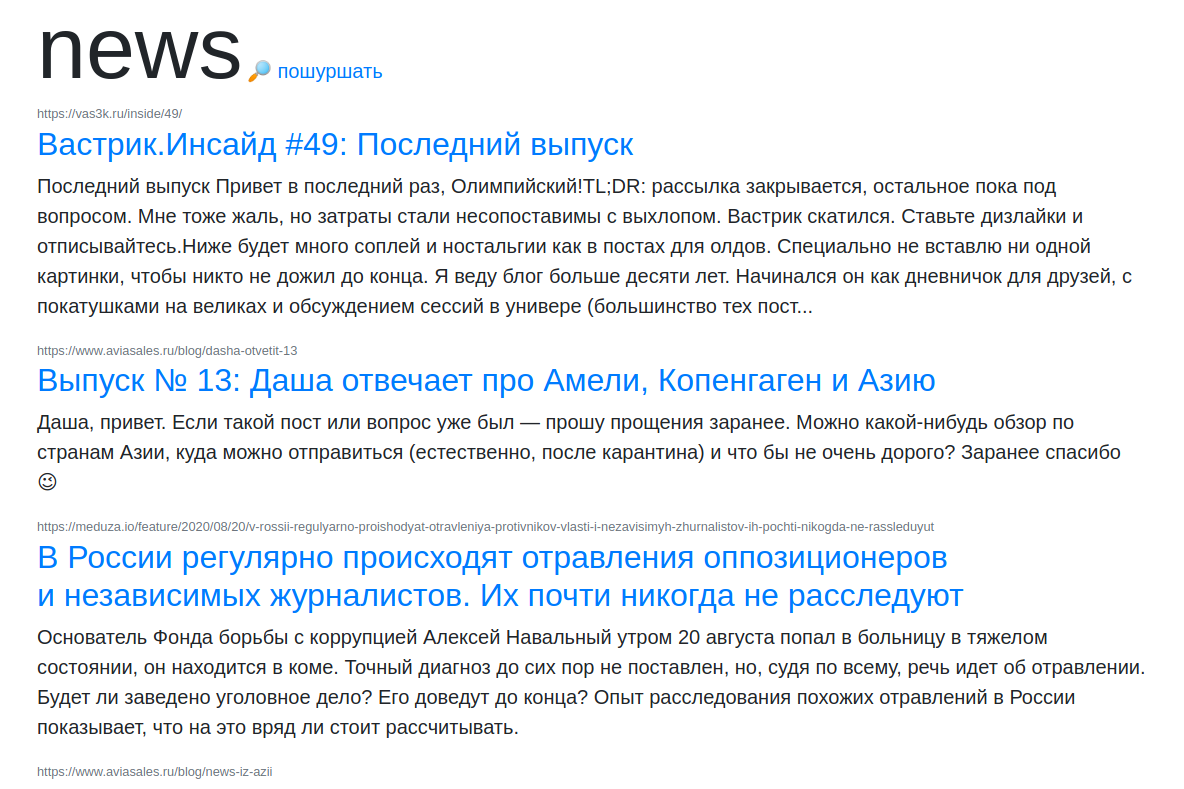
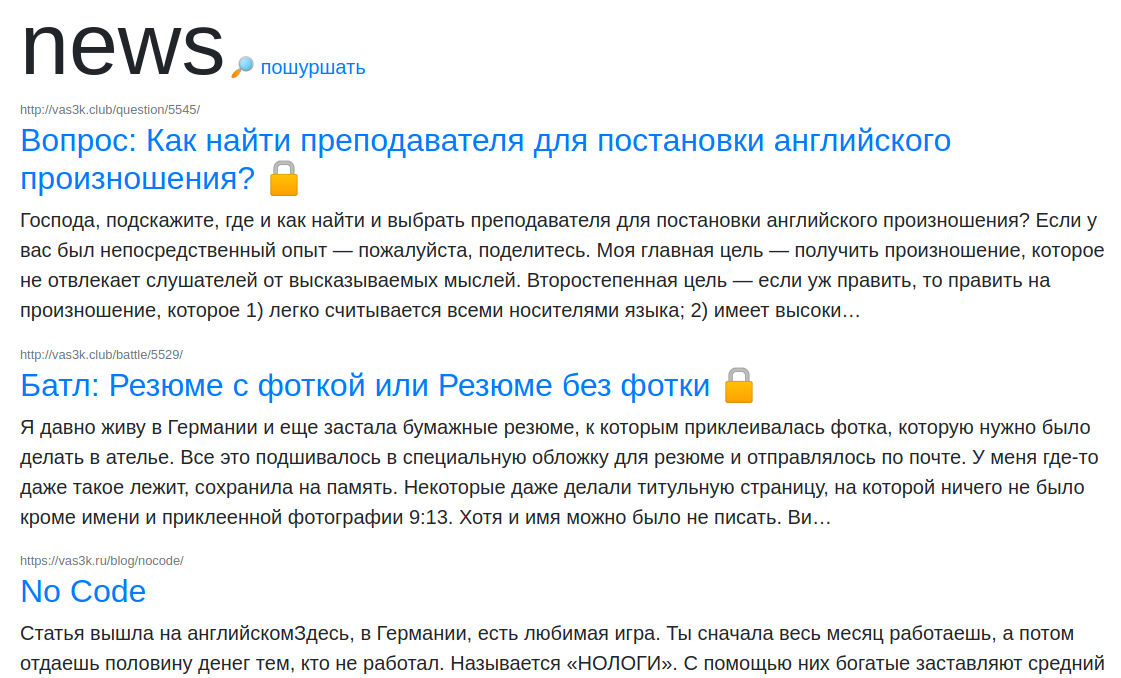
update readme and small fixes

Changed region(s): [[0.0, 0.031, 0.9991, 1.0]]

diff --git a/parser/feed.go b/parser/feed.go
@@ -1,15 +1,16 @@
 package main
 
 import (
+	"log"
+	"strings"
+
 	"github.com/PuerkitoBio/goquery"
 	"github.com/denchick/news/database"
 	"github.com/mmcdole/gofeed"
-	"log"
-	"strings"
 )
 
 func getFeeds() []string {
-	return []string{"https://vas3k.ru/rss/", "https://meduza.io/rss/all"}
+	return []string{"https://vas3k.ru/rss/", "https://vas3k.club/posts.rss"}
 }
 
 func parseFeed(feedUrl string) (articlesArr []database.Article) {

diff --git a/README.md b/README.md
@@ -1,8 +1,19 @@
 # news
 
-Хитро собирает новости из разных источников в одном месте.
+Pet-projects just for fun. Collects news from different sources in one place.
 
 ![preview](preview.png)
 
-## TODO
+## Whats next?
 
+- add news by categories
+- replace gorm to github.com/jackc/pgx
+- add feed source management (replace `getFeed()`)
+- rewrite frontend to TS/React
+- deploy to cloud
+
+## How to run?
+
+```
+docker-compose up
+```
